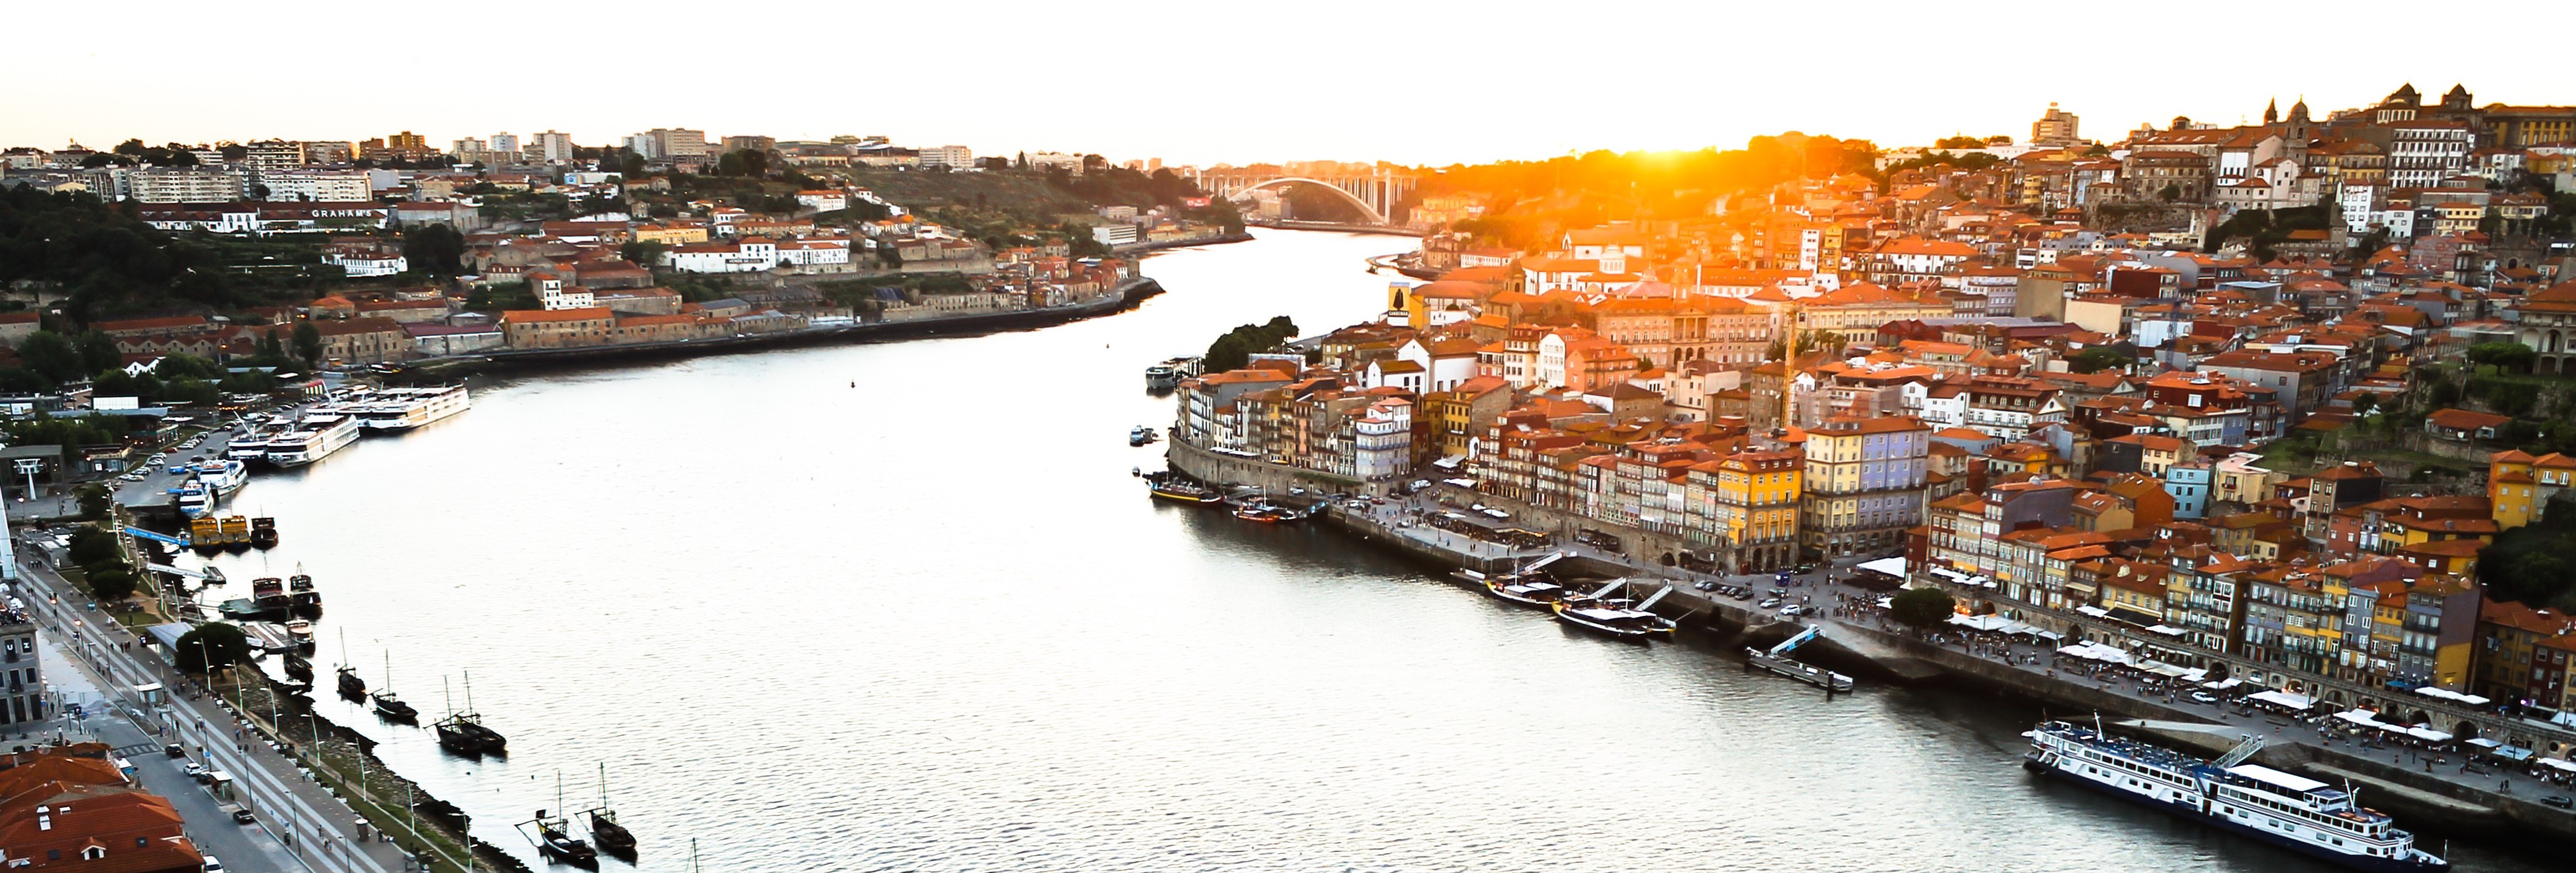
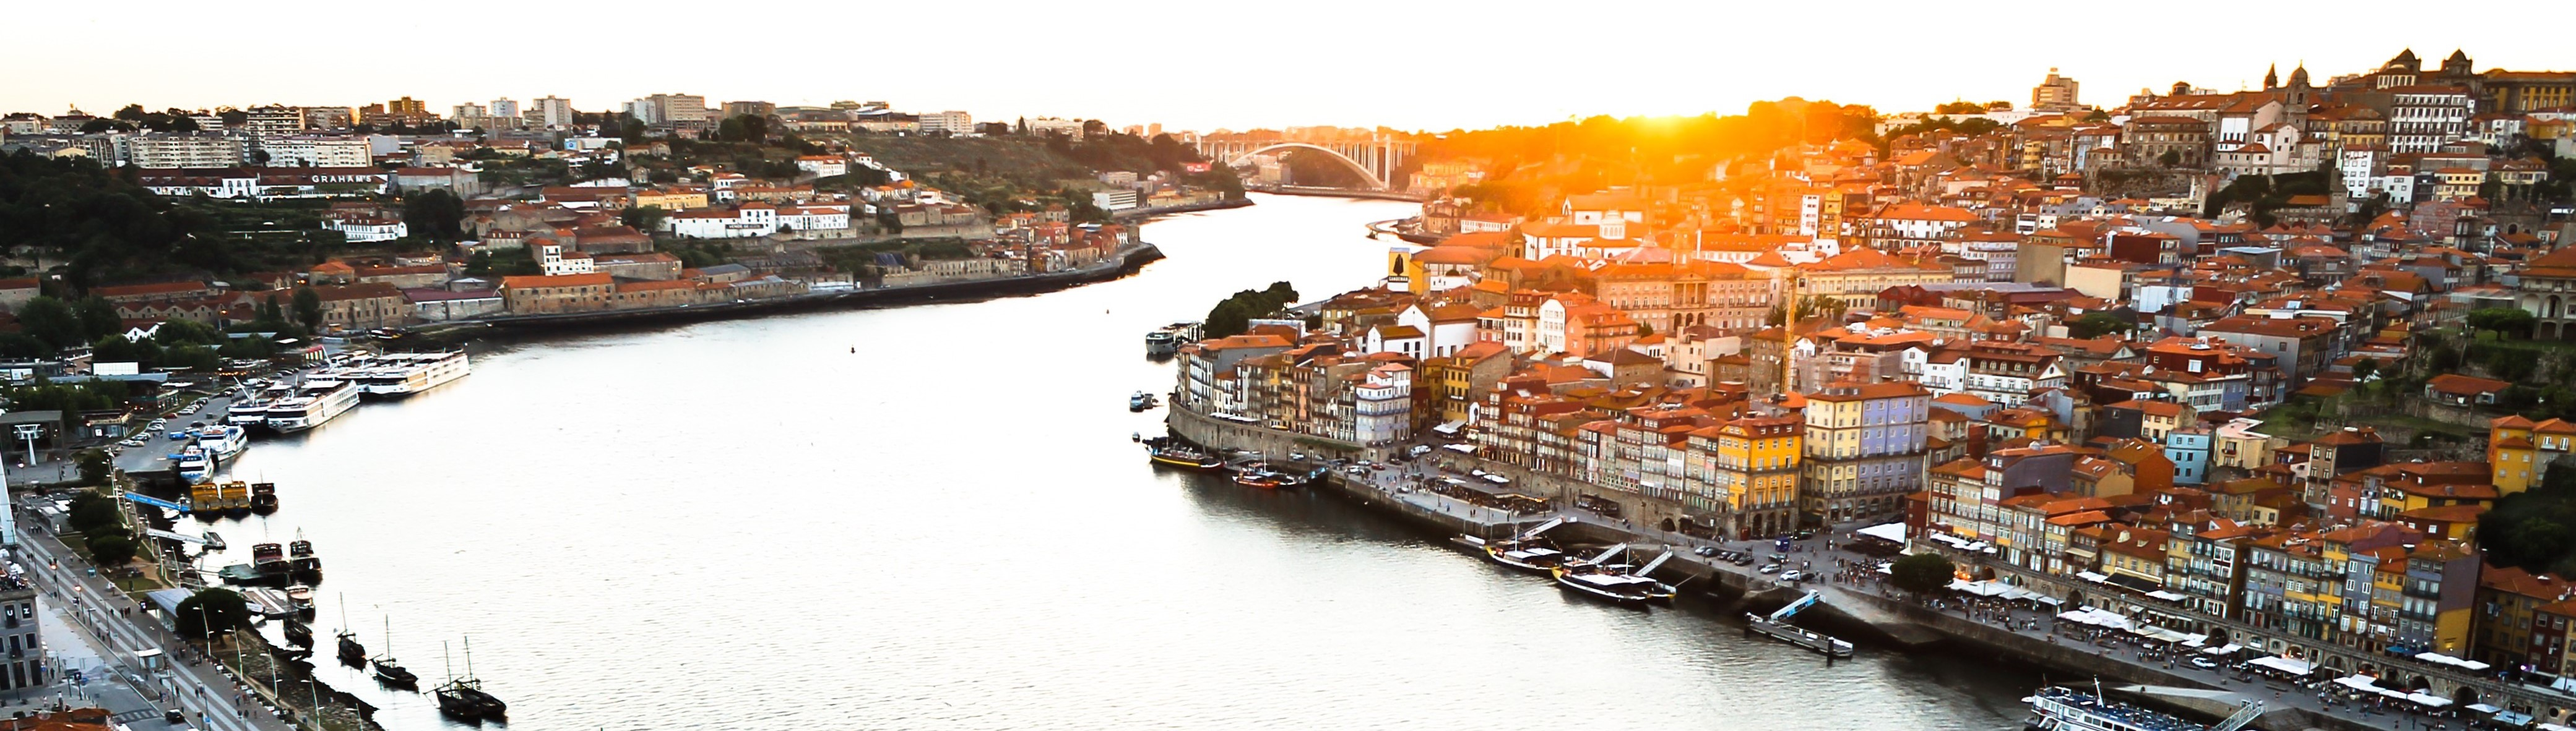
new projects page

diff --git a/index.html b/index.html
@@ -2,7 +2,7 @@
 layout: home
 author_profile: true
 header:
-    image: "/images/porto_small.jpg"
+    image: "/images/ggBridge.jpg"
 ---
 
 

diff --git a/_pages/myProjects.md b/_pages/myProjects.md
@@ -7,7 +7,38 @@ header:
     image: "/images/sf_financial_small.JPG"
 ---
 
+#Auto Insurance Forecast
 
+The Society of Actuaries and the Casualty Actuarial Society hired students from my university to create aggregate reports of auto insurance data. I worked with a few other students to analyze several auto insurance metrics accross each of the 50 US States. In November, 2018 we traveled to Las Vegas to report our findings at the Casualty Actuarial Society Annual Conference.
+
+I prepared the trends report in which I used ARIMA models to forecast auto insurance metrics. The report points out which states had out of the ordinary values based on the ARIMA model. The report I created is the "Auto Loss Cost Trends Q4 2017"
+
+<a href = "https://www.soa.org/research-reports/2018/auto-loss-cost-trends/">Auto Loss Costs</a>
+
+___
+
+#Program Usage Analysis for Microsoft
+
+Over the summer of 2017, I interned for a data analytics company, Jonathan Tooley Associates, located in Portugal. While there, I worked with a team to prepare a presentation to Microsoft to win a project bid. The task was to analyze program usage data from various companies. 
+
+Using Excel, R, and Shiny I built an interactive data dashboard to make the data tell a story. The web dashboard features interactive bar charts, regression analysis, clustering algorithms, an apriori association rules analysis, and linear discriminent analysis. 
+
+My web dashboard and other analyses by other employees were presented to the client, Microsoft. The client liked what we had done and hired us to do more projects with them. The link to the web application I created is below. The actual program titles are hidden for confidentiality reasons.
+
+- <a href="https://trevorjohnson.shinyapps.io/jta_app/" title="Microsoft App" target="_blank">Microsoft App</a>
+
+___
+
+#Kaggle
+
+___
+
+# Misc Projects
+
+Financial data project
+
+- Using web scrapping and other API tools, I built a data dashboard to easily access financial information in one place. The dashboard features an interactive candlestick stock chart, company financials, GDP plots for hundreds of countries, US Treasury bond yield graphs, and a FOREX table that updates every second.
+- <a href="https://trevorjohnson.shinyapps.io/Finance/" title="Financial Data" target="_blank">Financial Data</a>
 
 
 

diff --git a/_pages/about.md b/_pages/about.md
@@ -2,7 +2,7 @@
 title: "About"
 permalink: /about/
 header:
-    image: "/images/ggBridge.jpg"
+    image: "/images/porto_small.jpg"
 ---
 
 
